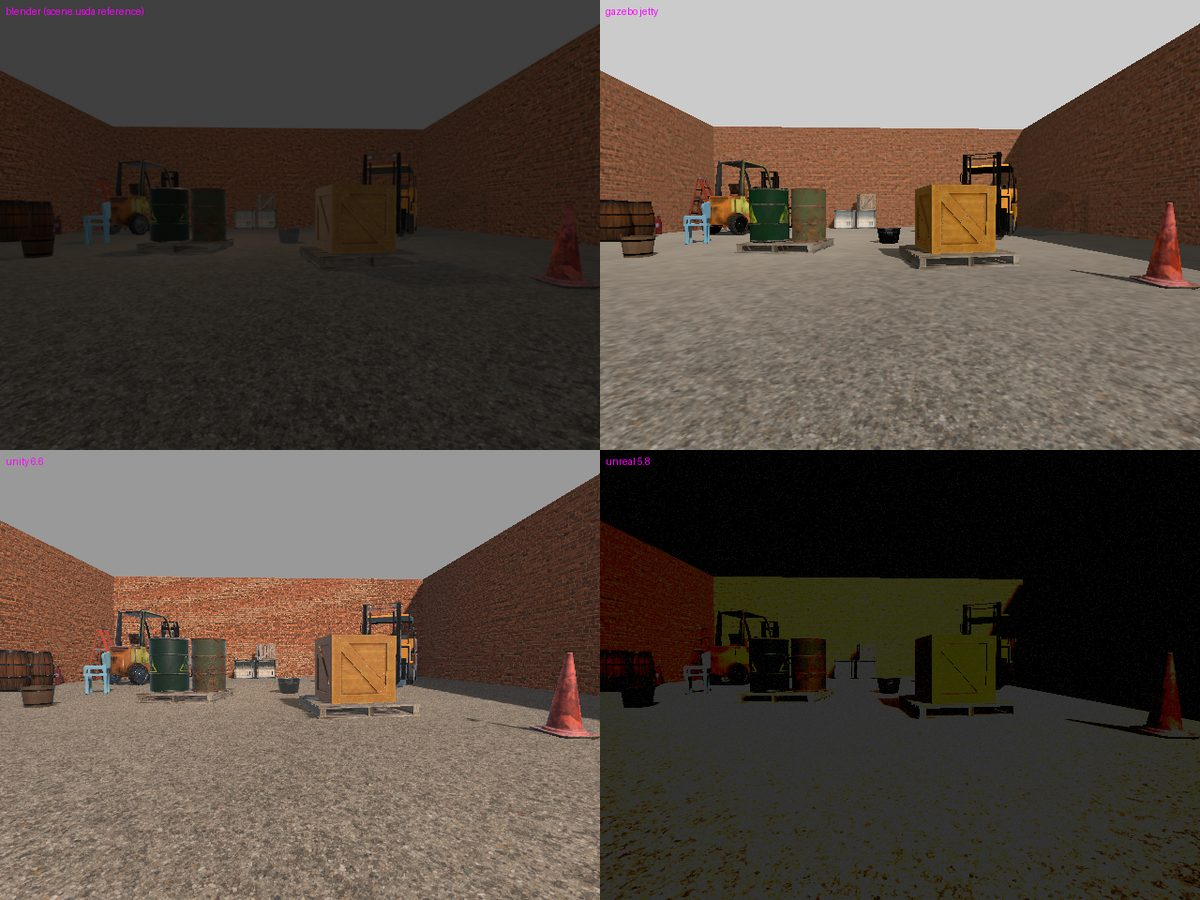
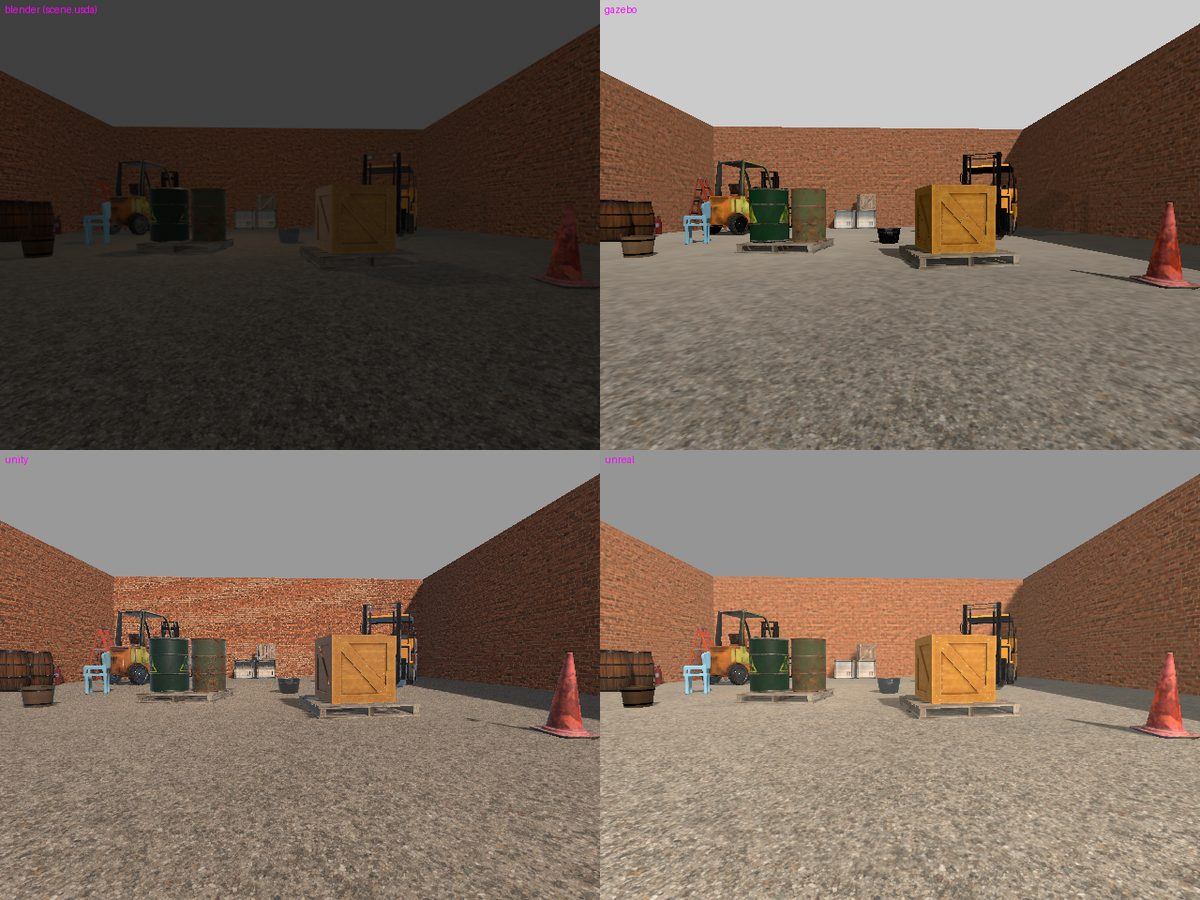
Refresh README images with the corrected Unreal renders

diff --git a/README.md b/README.md
@@ -104,6 +104,6 @@ data/yard/
 
 - Run simkit from the repo root: asset paths resolve from the working directory.
 - Rebuild the Unity player after changing anything in `unity/`; a stale player runs old code silently.
-- Colors and brightness differ between engines (Unreal adds no ambient light); geometry, masks and depth match.
+- Colors and brightness differ slightly between engines; geometry, masks and depth match.
 - Area lights work only in Unreal. Gazebo masks hold at most 255 objects per frame.
 - A failed run still writes `annotations.json` for the frames it finished; check the exit code.
